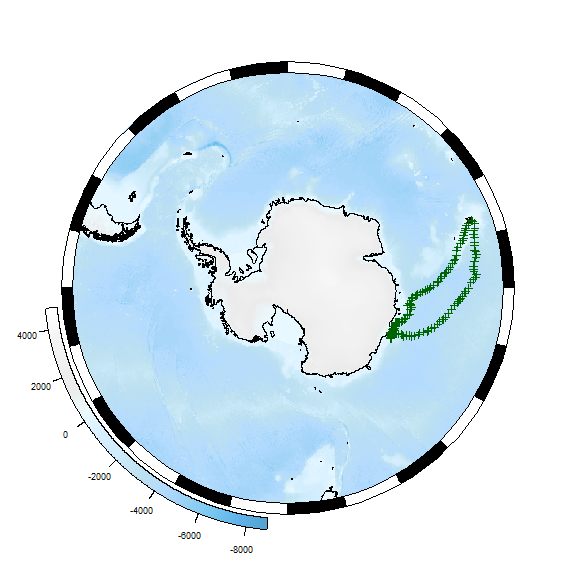
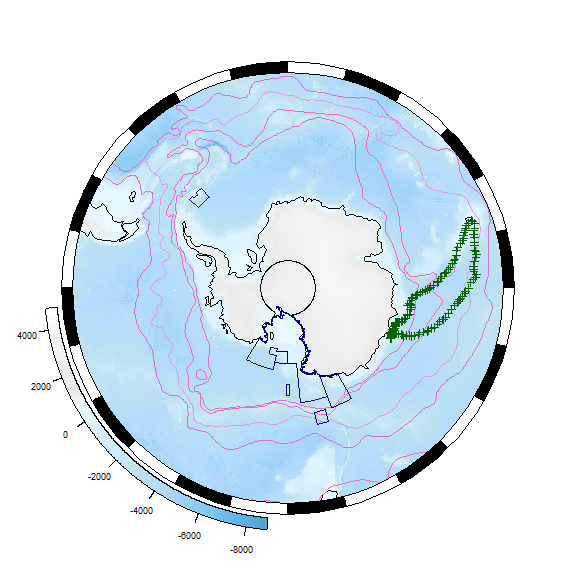
SOmap updates

diff --git a/antarctic.md b/antarctic.md
@@ -165,11 +165,11 @@ ggplot(x, aes(date, ice, colour = lat)) + geom_path() + theme_bw()
 
 #### Mapping
 
-Creating maps is another very common requirement, and in the Southern Ocean brings a few challenges (e.g. dealing with the dateline when using polar-stereographic or similar projections). There are also spatial features that many users want to show (coastlines, oceanic fronts, extent of sea ice, place names, etc).
+Creating maps is another very common requirement, and in the Southern Ocean brings a few challenges (e.g. dealing with the dateline when using polar-stereographic or similar projections). There are also spatial features that many users want to show (coastlines, oceanic fronts, extent of sea ice, place names, etc). The in-development `SOmap` package aims to help with this.
 
 ``` r
 library(SOmap)
-default_somap(x$lon, x$lat)
+SOauto_map(x$lon, x$lat, mask = FALSE)
 ```
 
 <img src="antarctic_files/figure-markdown_github/somap1-1.png" style="display: block; margin: auto;" />
@@ -185,8 +185,10 @@ coordinates(xsp) <- c("lon", "lat")
 projection(xsp) <- "+proj=longlat +ellps=WGS84"
 xsp <- spTransform(xsp, CRS("+proj=stere +lat_0=-90 +lat_ts=-71 +lon_0=0 +k=1 +x_0=0 +y_0=0 +datum=WGS84 +units=m +no_defs +ellps=WGS84 +towgs84=0,0,0"))
 
-## plot the base map
-invisible(capture.output(SOmap()))
+## plot the base map with ocean fronts shown
+SOmap(fronts = TRUE)
+## add current marine protected areas
+SOmanagement(MPA = TRUE, mpacol = "darkblue")
 ## add our track
 plot(xsp, col = "darkgreen", add = TRUE)
 ```
@@ -208,7 +210,15 @@ There is no single naming authority for place names in Antarctica, and so there 
 xn <- an_preferred(xn, origin = "United Kingdom")
 ```
 
-There are a lot of named features in the Antarctic, and we can't show all of them on our map. Which ones should we show? Let's ask antanym for suggestions as to which names should be shown on this map
+How many place names do we have?
+
+``` r
+nrow(xn)
+```
+
+    ## [1] 19742
+
+OK, we can't show all of these --- which ones should we show? Let's ask antanym for suggestions as to which names should be shown on this map:
 
 ``` r
 xns <- an_suggest(xn, map_scale = 20e6, map_extent = c(-180, 180, -90, -40))
@@ -217,7 +227,7 @@ xns <- an_suggest(xn, map_scale = 20e6, map_extent = c(-180, 180, -90, -40))
 temp <- as_tibble(spTransform(xns, projection(Bathy))) %>% head(10)
 
 ## add them to the map
-invisible(capture.output(SOmap()))
+SOmap()
 plot(xsp, col = "darkgreen", add = TRUE)
 with(temp, points(x = longitude, y= latitude, pch = 16))
 with(temp, text(x = longitude, y= latitude, labels = place_name, pos = 2 + 2*(longitude > 0)))
